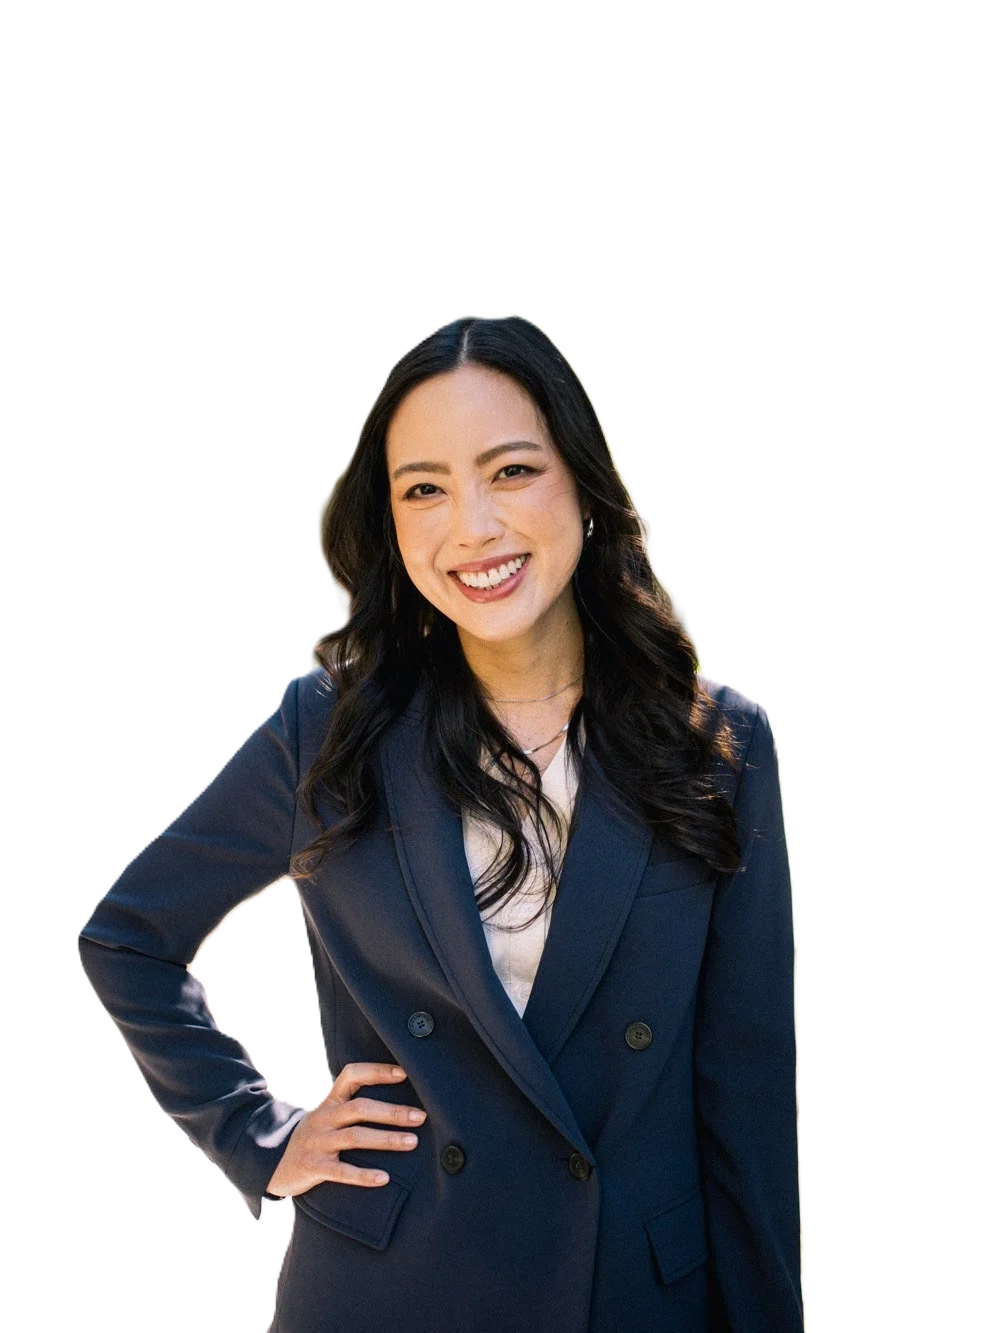
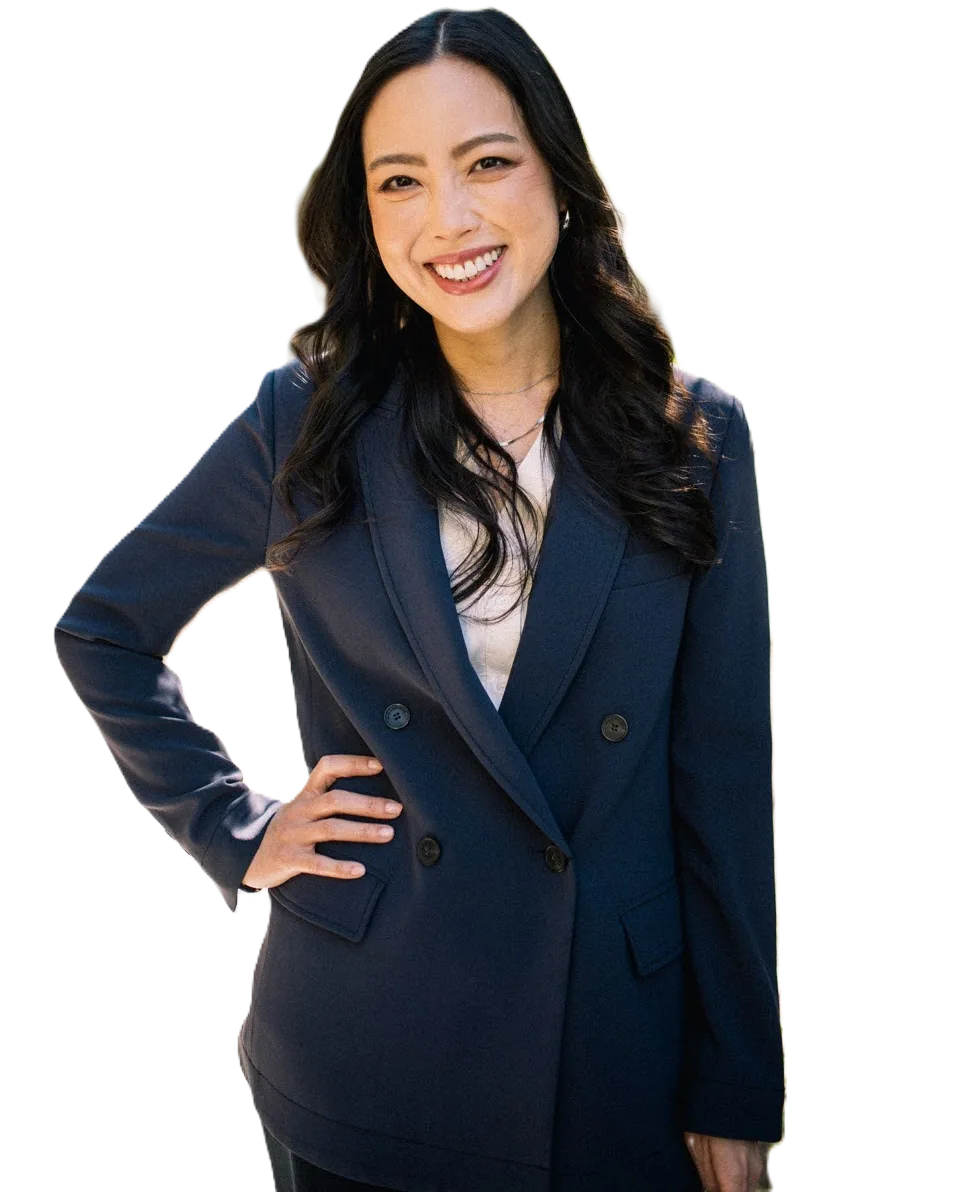
home: align hero photo with H1 line + use cropped source
Swap the home hero photo for a pre-cropped version (head at the top of
the frame instead of buried in whitespace) and shift the .photo-card
down with translateY(90px) so the photo's top sits on the same baseline
as the hero H1 at desktop. transform (not margin) is used so the grid
track height stays put and the hero copy doesn't drift downward.

diff --git a/src/styles/v1/home.css b/src/styles/v1/home.css
@@ -412,6 +412,10 @@ body {
   margin: 0 -8% 0 0;
   width: 130%;
   min-height: 620px;
+  /* CLI-104 polish: align photo top with the hero H1's top line. Using a
+     transform instead of margin so the grid track height stays put and the
+     hero copy doesn't drift downward. */
+  transform: translateY(90px);
 }
 .photo-card img {
   width: 100%;